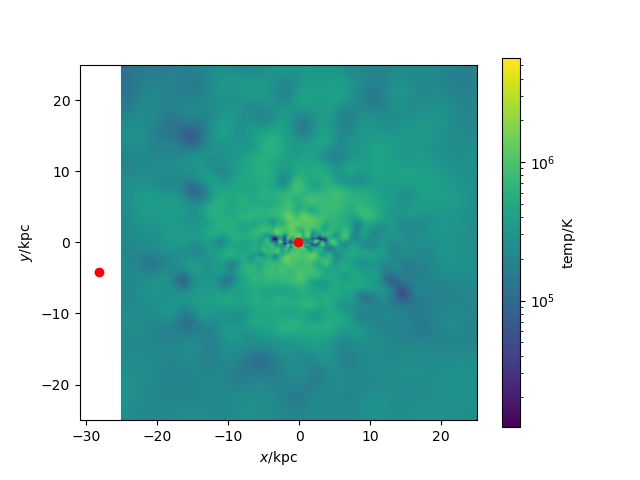
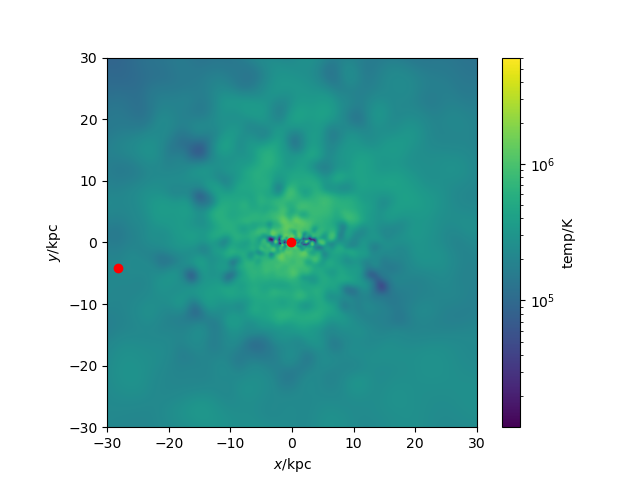
axis updated to fit side on

diff --git a/r154/galaxy154_iongas.py b/r154/galaxy154_iongas.py
@@ -20,7 +20,7 @@ pynbody.analysis.angmom.sideon(s)
 GasFilter = pynbody.filt.HighPass('temp','15848 K')
 
 #creating image to show velocity of ionised gas
-sph.image(s.g[GasFilter],qty="vr",vmin=-20,width=50,denoise=True,approximate_fast=False,log=False)
+sph.image(s.g[GasFilter],qty="vr",vmin=-20,width=60,denoise=True,approximate_fast=False,log=False)
 
 #function to find BH
 def findBH(s):

diff --git a/r154/galaxy154_temp.py b/r154/galaxy154_temp.py
@@ -16,7 +16,7 @@ s.physical_units()
 pynbody.analysis.angmom.sideon(s)
 
 #creating slice to show gas temp
-sph.image(s.g,qty="temp",width=50,denoise=True,approximate_fast=False,log=True)
+sph.image(s.g,qty="temp",width=60,denoise=True,approximate_fast=False,log=True)
 
 #function to find BH
 def findBH(s):

diff --git a/r154/galaxy154_velocity.py b/r154/galaxy154_velocity.py
@@ -16,7 +16,7 @@ s.physical_units()
 pynbody.analysis.angmom.sideon(s)
 
 #creating gas velocity plot
-sph.image(s.g,qty="vr",width=50,denoise=True,approximate_fast=False,log=False)
+sph.image(s.g,qty="vr",width=60,denoise=True,approximate_fast=False,log=False)
 
 #function to find BH
 def findBH(s):

diff --git a/r154/galaxy154_stars.py b/r154/galaxy154_stars.py
@@ -14,7 +14,7 @@ s.physical_units()
 pynbody.analysis.angmom.sideon(s)
 
 #creating image using default bands(i,v,u)
-pynbody.plot.stars.render(s,width='50 kpc')
+pynbody.plot.stars.render(s,width='60 kpc')
 
 #plt.show()
 #plt.savefig("galaxy154_stars.png")

diff --git a/r154/galaxy154_dens.py b/r154/galaxy154_dens.py
@@ -14,7 +14,7 @@ s.physical_units()
 pynbody.analysis.angmom.sideon(s)
 
 #creating gas density slice
-sph.image(s.g,qty="rho",units="g cm^-3",width=50)
+sph.image(s.g,qty="rho",units="g cm^-3",width=60)
 
 #function to find BH
 def findBH(s):
